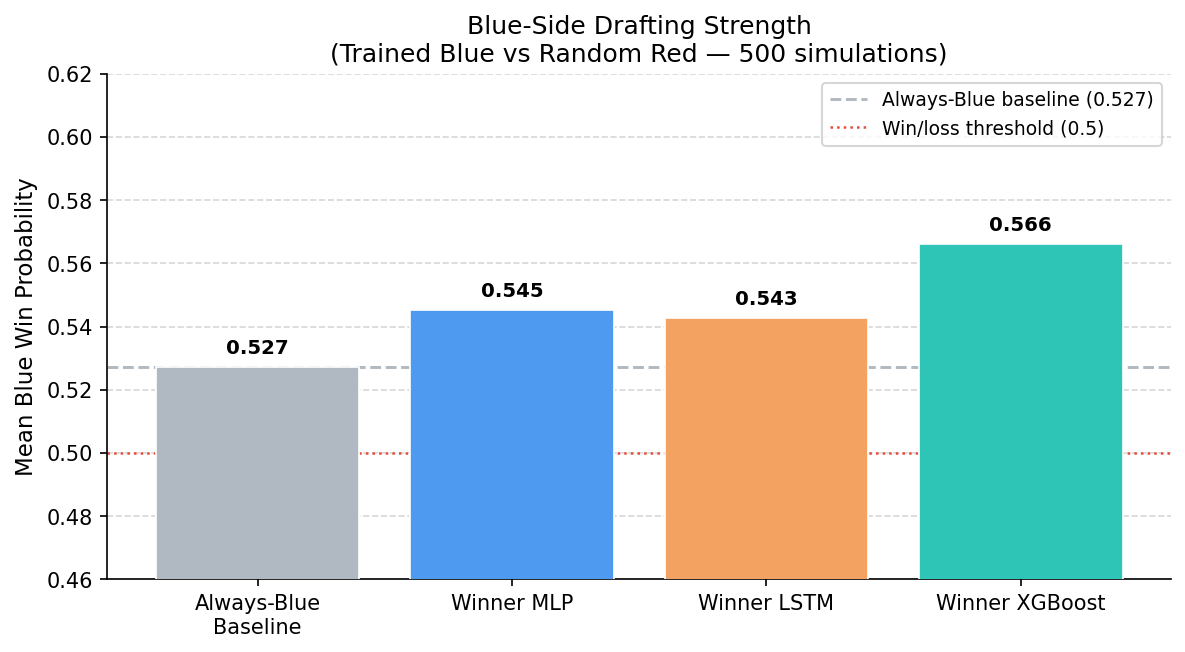
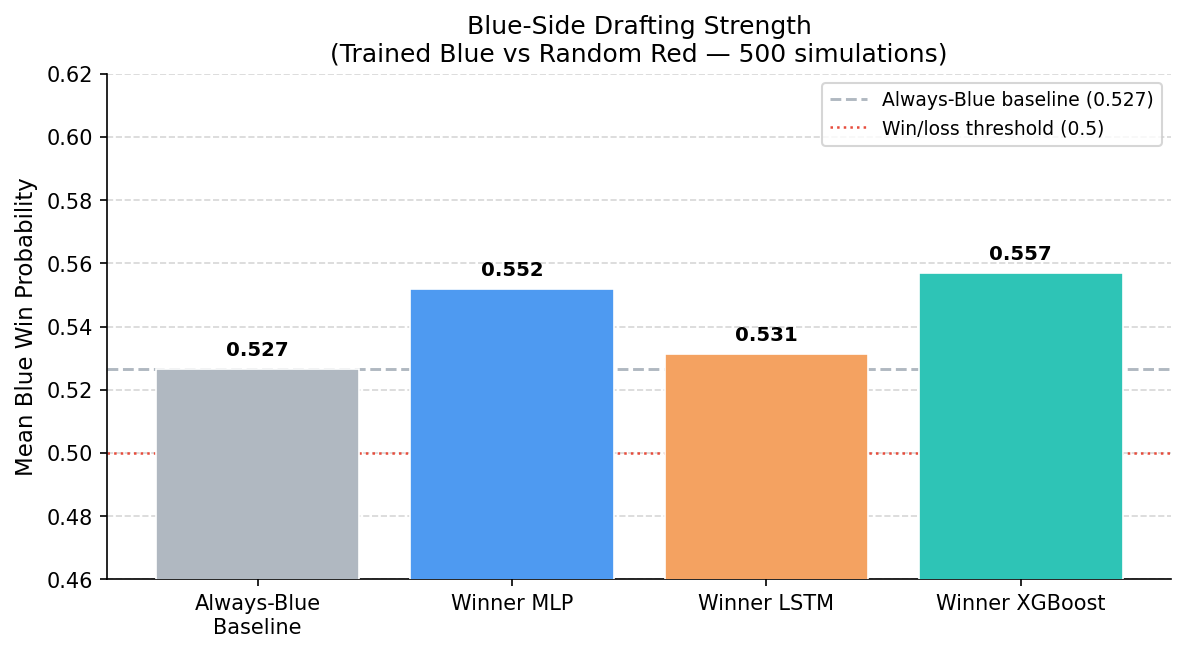
feat: add new plots

diff --git a/src/plot_draft_predictor_results.py b/src/plot_draft_predictor_results.py
@@ -30,26 +30,26 @@ BASELINE = 0.4659   # Random vs Random mean Blue WP
 
 # Always-Blue baseline: LR model's expected score when compositions are
 # evaluated assuming Blue always wins — Blue win rate in test set ~52.7%
-ALWAYS_BLUE_WP = 0.5273   # always-blue baseline Blue win probability
-ALWAYS_RED_WP  = 1 - ALWAYS_BLUE_WP   # = 0.4727
+ALWAYS_BLUE_WP = 0.5267   # always-blue baseline Blue win probability
+ALWAYS_RED_WP  = 1 - ALWAYS_BLUE_WP   # = 0.4733
 
 RESULTS = {
     # (mean_blue_wp, blue_favored_pct, std)
-    'mlp_blue_vs_random':    (0.5451, 63.4, 0.141),
-    'random_vs_mlp_red':     (0.4787, 43.4, 0.141),
-    'mlp_vs_mlp':            (0.5213, 55.8, 0.141),
+    'mlp_blue_vs_random':    (0.5520, 65.0, 0.142),
+    'random_vs_mlp_red':     (0.4634, 38.4, 0.144),
+    'mlp_vs_mlp':            (0.5339, 61.2, 0.141),
 
-    'lstm_blue_vs_random':   (0.5428, 64.0, 0.134),
-    'random_vs_lstm_red':    (0.4703, 41.6, 0.139),
-    'lstm_vs_lstm':          (0.4941, 47.4, 0.152),
+    'lstm_blue_vs_random':   (0.5313, 59.8, 0.136),
+    'random_vs_lstm_red':    (0.4720, 40.4, 0.140),
+    'lstm_vs_lstm':          (0.4919, 46.0, 0.151),
 
-    'xgb_blue_vs_random':    (0.5660, 69.8, 0.130),
-    'random_vs_xgb_red':     (0.4707, 41.2, 0.149),
-    'xgb_vs_xgb':            (0.5188, 54.0, 0.147),
+    'xgb_blue_vs_random':    (0.5570, 67.0, 0.134),
+    'random_vs_xgb_red':     (0.4802, 42.8, 0.140),
+    'xgb_vs_xgb':            (0.5232, 54.4, 0.156),
 
-    'mlp_blue_vs_lstm_red':  (0.5388, 59.0, 0.150),
-    'mlp_blue_vs_xgb_red':   (0.5157, 54.0, 0.143),
-    'lstm_blue_vs_xgb_red':  (0.4881, 45.0, 0.145),
+    'mlp_blue_vs_lstm_red':  (0.5194, 52.4, 0.154),
+    'mlp_blue_vs_xgb_red':   (0.5139, 54.4, 0.153),
+    'lstm_blue_vs_xgb_red':  (0.4898, 45.6, 0.138),
 }
 
 # Colour palette — one colour per model + grey for random

diff --git a/src/plot_win_predictor_results.py b/src/plot_win_predictor_results.py
@@ -29,9 +29,9 @@ import numpy as np
 
 RESULTS = {
     'always_blue_baseline': {
-        'accuracy': 0.5273,   # = Blue win rate in test set
-        'auc':      0.5000,   # constant predictor has no discrimination
-        'log_loss': 0.6834,   # entropy of the Blue win rate
+        'accuracy': 0.5267,
+        'auc':      0.5000,
+        'log_loss': 0.6917,
     },
     'xgboost': {
         'accuracy': 0.5556,
@@ -39,9 +39,9 @@ RESULTS = {
         'log_loss': 0.6855,
     },
     'neural_network': {
-        'accuracy': 0.5628,
-        'auc':      0.5861,
-        'log_loss': 0.7431,
+        'accuracy': 0.4776,
+        'auc':      0.5661,
+        'log_loss': 0.6940,
     },
     'logistic': {
         'accuracy': 0.5758,
